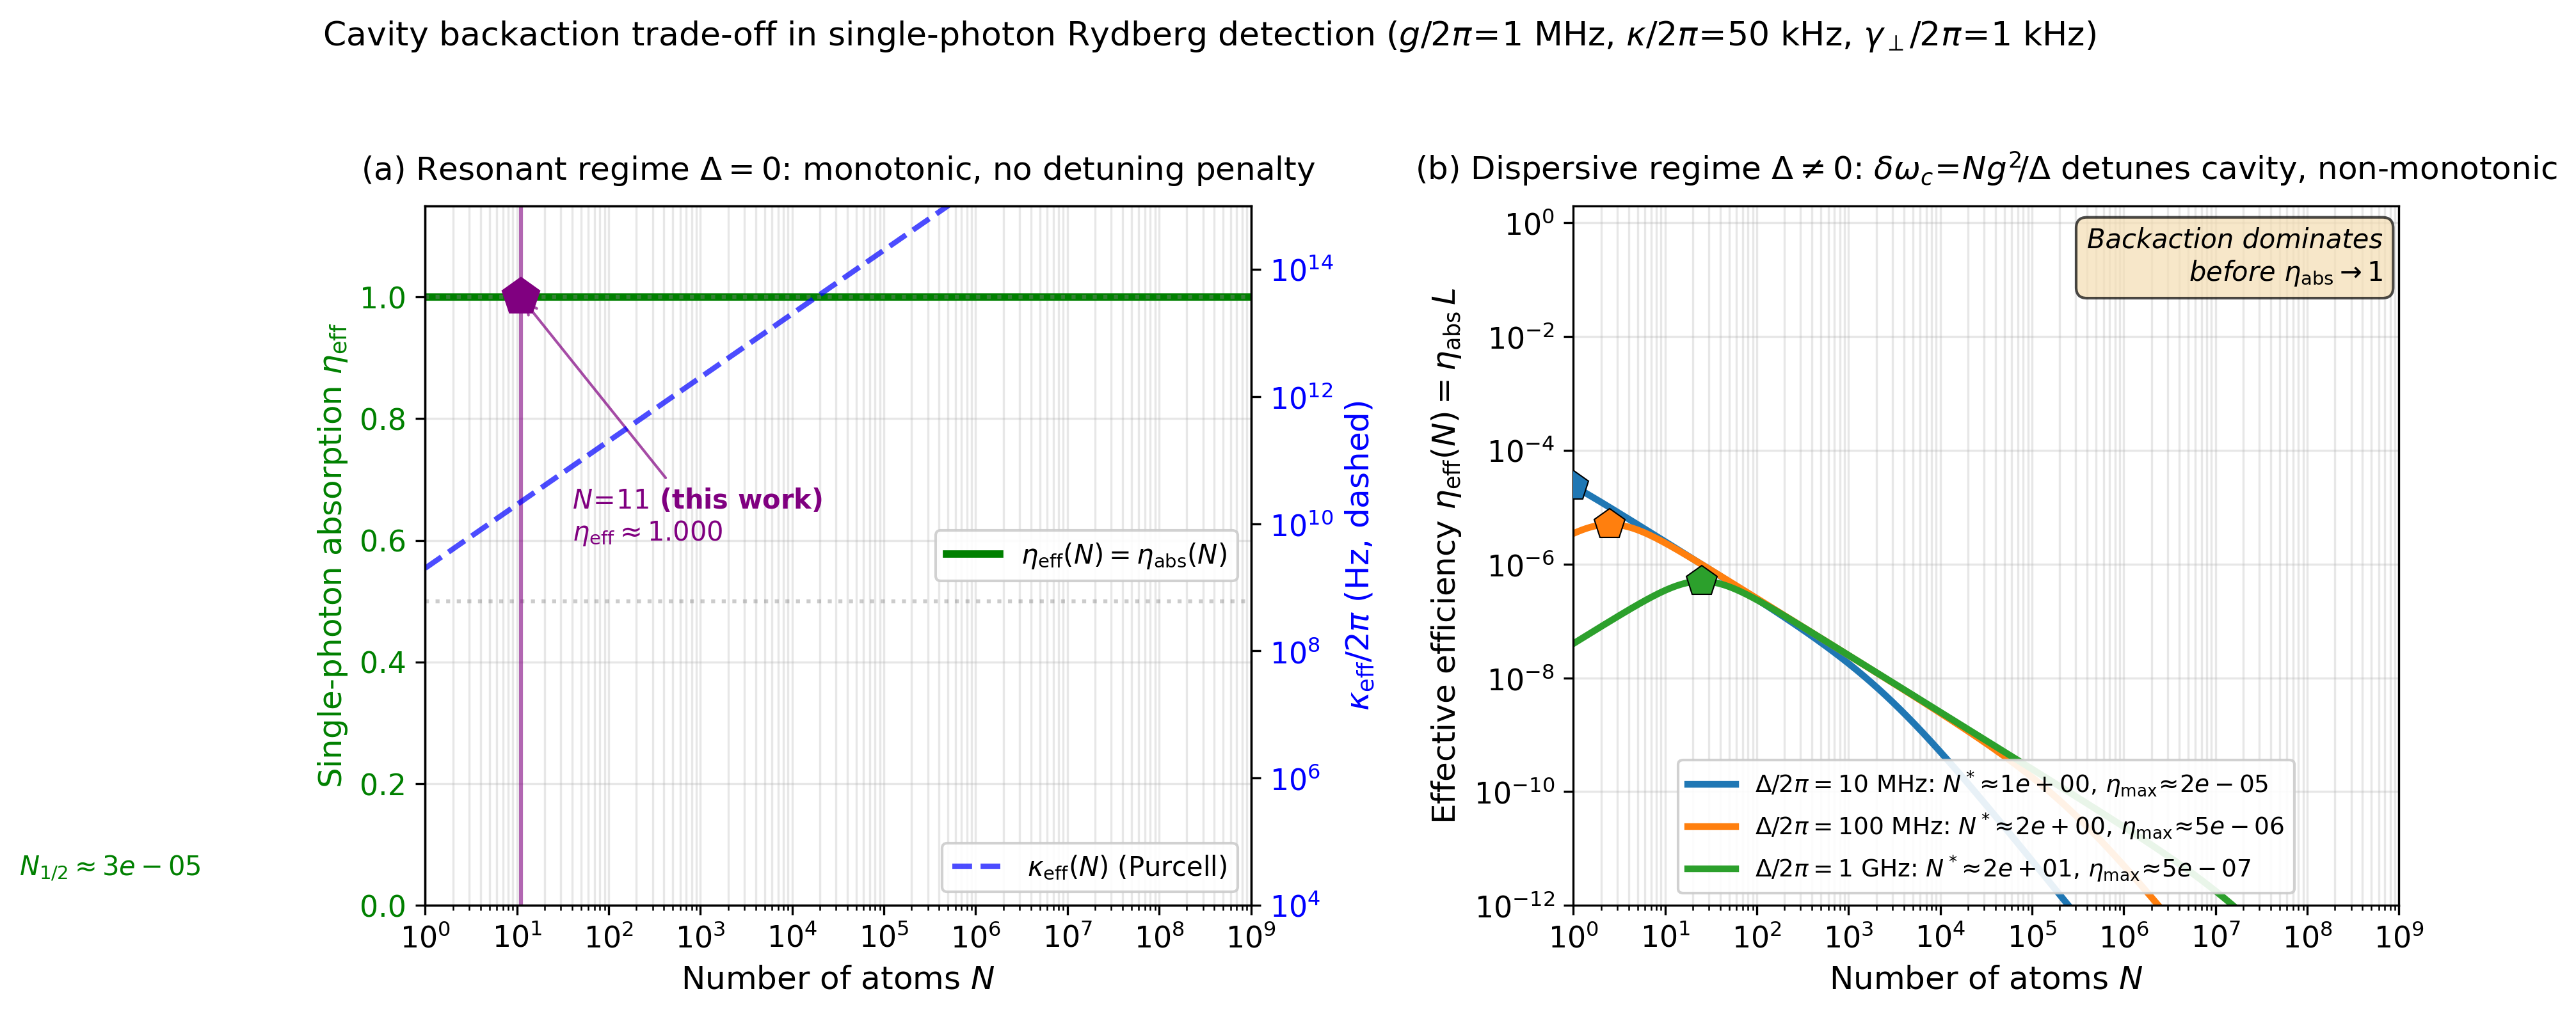
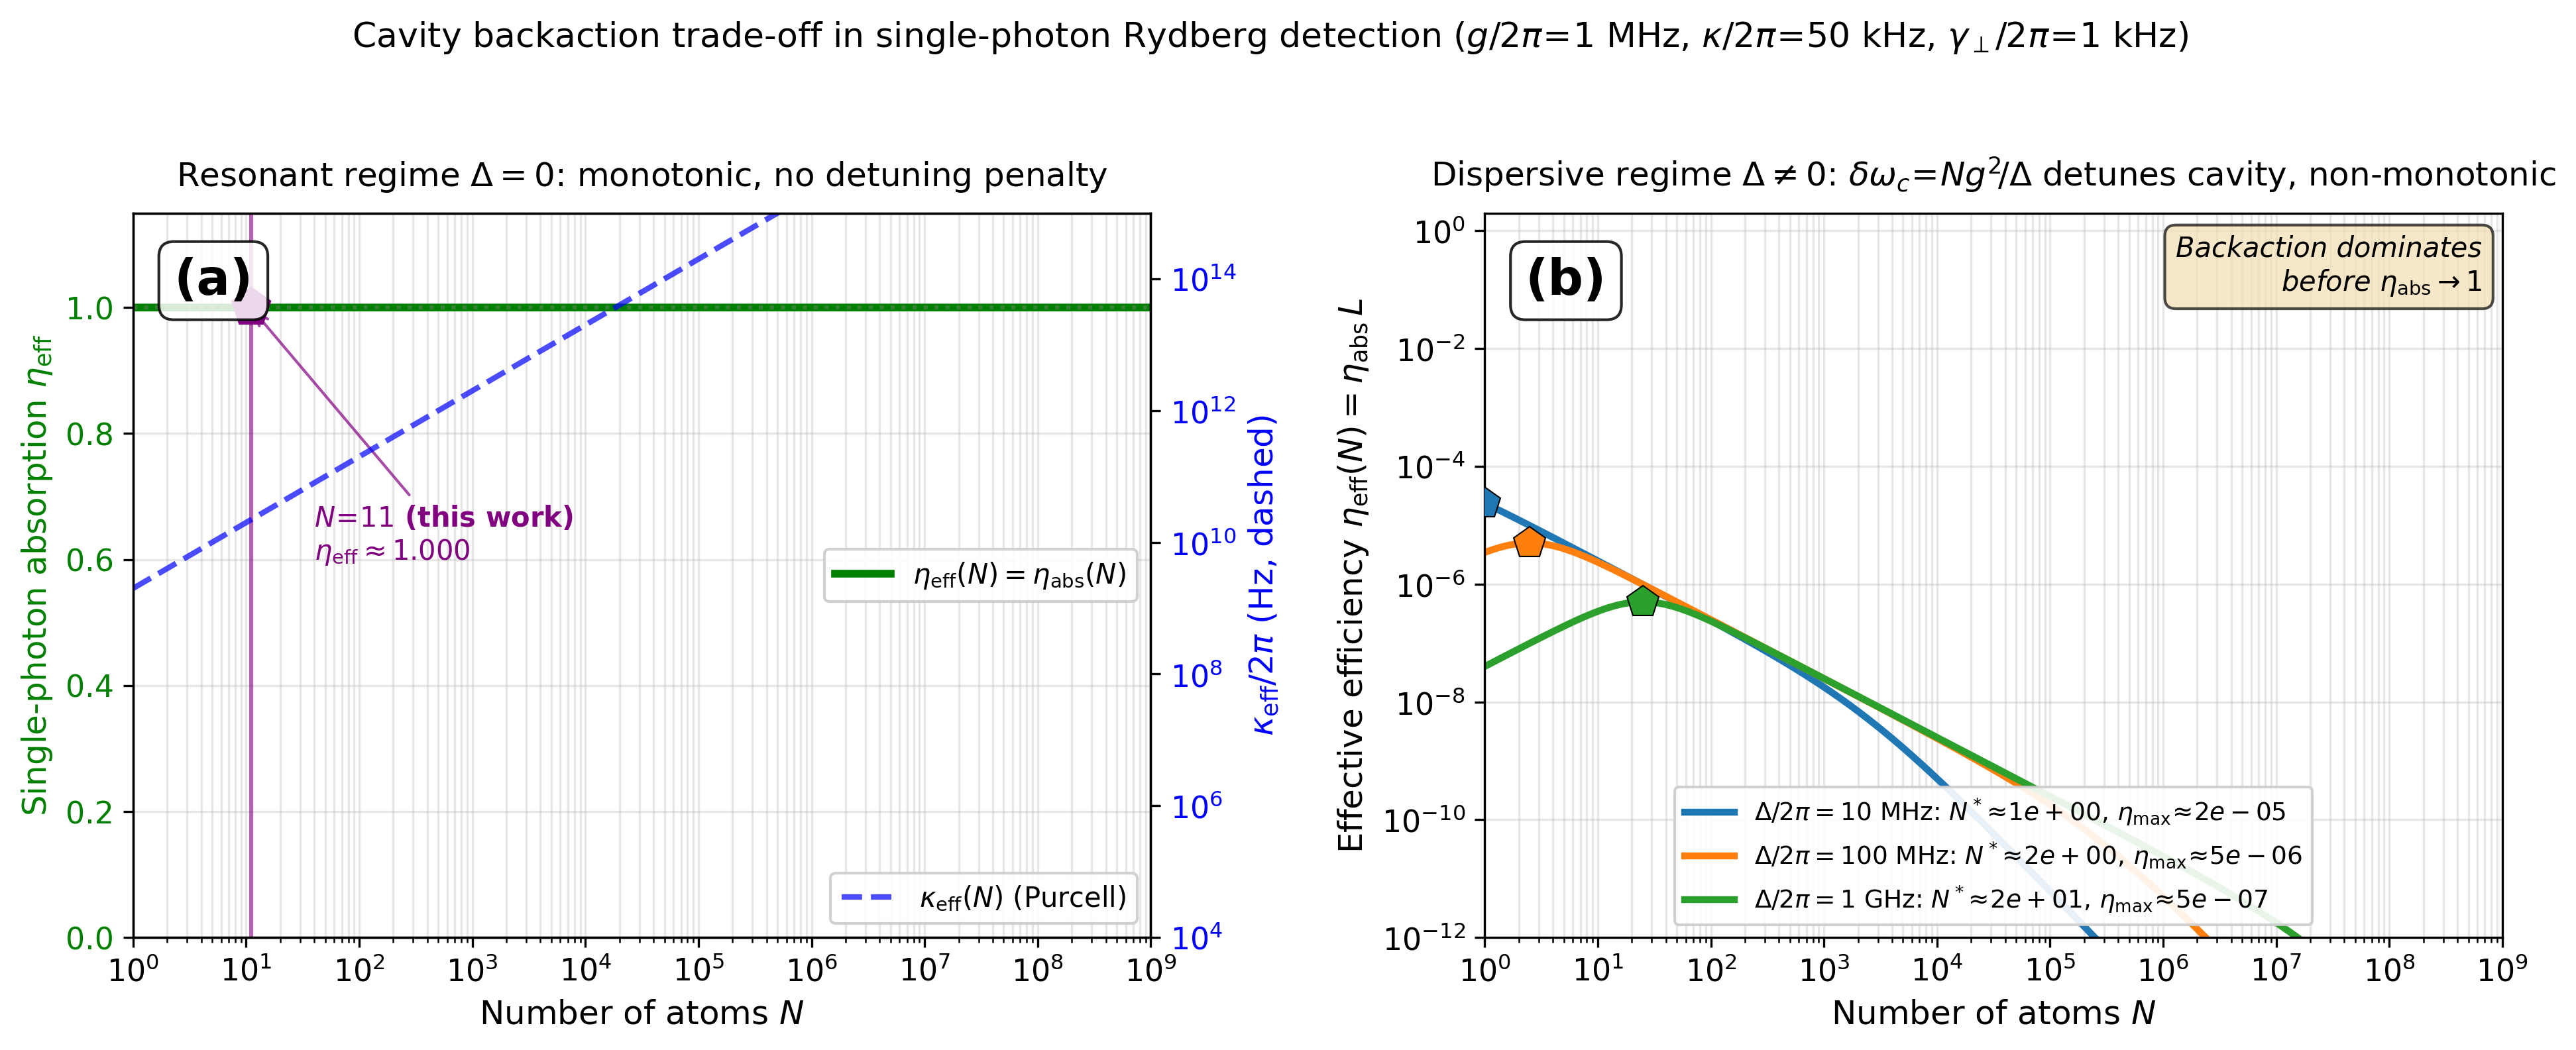
Cosmetic cleanup of figure scripts (Fig 4.1 and Fig 4.3)
This commit groups three small improvements to the figure-generation
scripts for chapter 4 of the thesis:

1. backaction_eta_eff_vs_N.py (Fig 4.3): remove the orphan annotation
   N_(1/2) ~= 3e-5 and the axhline(0.5)/axvline(N_half_res) marks that
   accompanied it.  These objects landed outside the plot area because
   the x-position N_half_res*1.5 = 3.75e-5 falls far below xlim=[1, 1e9]
   on the log axis, so matplotlib was clipping them to the lower-left
   margin.  N_(1/2) is also unphysical (the formula N_(1/2) = 1/(2 C_1)
   evaluates to a fractional atom for C_1 ~ 2e4, which has no
   operational meaning) so removing the annotation also improves
   physical clarity.

2. backaction_eta_eff_vs_N.py: add boxed panel labels (a) and (b) in
   the upper-left corner of each subplot (white box, black edge,
   bold, fontsize 18, zorder 10), and drop the redundant '(a)' /
   '(b)' that used to live in the subplot titles.  This brings the
   figure in line with the typographic convention now used in
   captions throughout the thesis.

3. plot_B_field_scan_with_labels.py (Fig 4.1): new standalone wrapper
   that runs the standard scan_magnetic_field + plot_magnetic_field_
   comparison pipeline and overlays panel labels (a)-(d) using the
   same boxed-text style.  The simulation itself is unchanged with
   respect to the version that generated the figure currently
   committed under chapters/qs_figures/ — Hamiltonian, parameters,
[…]

diff --git a/3_qutip_simpulation_with_magnetic_field/axion_rydberg_package/examples/plot_B_field_scan_with_labels.py b/3_qutip_simpulation_with_magnetic_field/axion_rydberg_package/examples/plot_B_field_scan_with_labels.py
@@ -1,0 +1,95 @@
+"""
+Generate fig:B_field_scan (axion_detector_B_scan.png) with panel
+labels (a), (b), (c), (d) drawn inside each subplot.
+
+The script runs the standard QuTiP magnetic-field scan from
+`axion_rydberg_detector_magnetic_field` (B = 0, 1, 3, 5 T, N = 11
+atoms, T = 4 K), then calls the standard 4-panel plotting routine
+`plot_magnetic_field_comparison` and overlays panel labels (a)-(d)
+as boxed text in the upper-left corner of each subplot before
+saving the figure with the manuscript-expected filename
+`axion_detector_B_scan.png`.
+
+The simulation itself is UNCHANGED with respect to the version that
+generated the figure currently committed in
+PhDThesis/chapters/qs_figures/.  Same Hamiltonian, same parameters,
+same dimensional checks.  Only cosmetic overlays are added.
+
+
+HOW TO RUN
+----------
+Place this script in the
+    axion_rydberg_package/examples/
+directory (next to the existing example_B_field_scan.py), then:
+
+    cd .../axion_rydberg_package/examples/
+    python3 plot_B_field_scan_with_labels.py
+
+The figure is saved into the same directory.  Copy it into the
+PhDThesis repository under
+    chapters/qs_figures/axion_detector_B_scan.png
+to overwrite the version referenced by the LaTeX caption.
+
+
+REQUIREMENTS
+------------
+- qutip
+- numpy
+- matplotlib
+
+Runtime: ~1-3 minutes on a typical workstation (4 QuTiP runs at
+N = 11, Hilbert dimension 2048).
+"""
+
+import os
+import sys
+
+# Locate the code/ directory next to this examples/ directory
+_here = os.path.dirname(os.path.abspath(__file__))
+_code_dir = os.path.normpath(os.path.join(_here, '..', 'code'))
+if _code_dir not in sys.path:
+    sys.path.insert(0, _code_dir)
+
+from axion_rydberg_detector_magnetic_field import (  # noqa: E402
+    scan_magnetic_field, plot_magnetic_field_comparison
+)
+
+
+# ============================================================================
+# Run the magnetic-field scan (full QuTiP simulation)
+# ============================================================================
+results = scan_magnetic_field(
+    B_values=[0.0, 1.0, 3.0, 5.0],
+    temperature=4.0,
+    N=11,
+)
+
+
+# ============================================================================
+# Plot — patch the standard 4-panel comparison with panel labels
+# ============================================================================
+fig = plot_magnetic_field_comparison(results, save_fig=False)
+
+# Overlay panel labels (a)-(d) in the upper-left corner of each subplot.
+# The first four axes of `fig.axes` are the four data panels; any
+# subsequent axes belong to colorbars and are skipped.
+panel_labels = ['(a)', '(b)', '(c)', '(d)']
+for ax, lbl in zip(fig.axes[:4], panel_labels):
+    ax.text(
+        0.04, 0.94, lbl,
+        transform=ax.transAxes,
+        fontsize=18, fontweight='bold',
+        va='top', ha='left',
+        bbox=dict(
+            boxstyle='round,pad=0.3',
+            facecolor='white',
+            edgecolor='black',
+            alpha=0.85,
+        ),
+        zorder=10,
+    )
+
+# Save with the exact filename expected by the manuscript
+out_path = os.path.join(_here, 'axion_detector_B_scan.png')
+fig.savefig(out_path, dpi=300, bbox_inches='tight')
+print(f"\nSaved: {out_path}")

diff --git a/4_cavity_backaction_analysis/backaction_eta_eff_vs_N.py b/4_cavity_backaction_analysis/backaction_eta_eff_vs_N.py
@@ -119,11 +119,6 @@ ax = axes[0]
 ax.semilogx(N_arr, eta_abs_res, 'g-', linewidth=2.8,
             label=r'$\eta_{\rm eff}(N) = \eta_{\rm abs}(N)$')
 ax.axhline(1.0, color='gray', linestyle=':', alpha=0.4)
-ax.axhline(0.5, color='gray', linestyle=':', alpha=0.4)
-ax.axvline(N_half_res, color='green', linestyle='--', alpha=0.4, linewidth=1.5)
-ax.text(N_half_res*1.5, 0.05,
-        rf'$N_{{1/2}} \approx {N_half_res:.0e}$',
-        color='green', fontsize=10)
 
 # Roberto's working point at N=11
 N_work = 11
@@ -138,11 +133,16 @@ ax.annotate(rf'$N\!=\!11$ (this work)' + '\n' + rf'$\eta_{{\rm eff}}\approx{eta_
 ax.set_xlabel(r'Number of atoms $N$')
 ax.set_ylabel(r'Single-photon absorption $\eta_{\rm eff}$', color='g')
 ax.tick_params(axis='y', labelcolor='g')
-ax.set_title(r'(a) Resonant regime $\Delta=0$: monotonic, no detuning penalty', pad=10)
+ax.set_title(r'Resonant regime $\Delta=0$: monotonic, no detuning penalty', pad=10)
 ax.set_ylim([0, 1.15])
 ax.set_xlim([1, 1e9])
 ax.grid(True, alpha=0.3, which='both')
 ax.legend(loc='center right', framealpha=0.9)
+# Panel label (a)
+ax.text(0.04, 0.94, '(a)', transform=ax.transAxes,
+        fontsize=18, fontweight='bold', va='top', ha='left',
+        bbox=dict(boxstyle='round,pad=0.3', facecolor='white',
+                  edgecolor='black', alpha=0.85), zorder=10)
 
 # Secondary axis: kappa_eff/(2pi) (Purcell broadening)
 ax2 = ax.twinx()
@@ -168,11 +168,16 @@ for r, label, color in zip(results_disp, Delta_labels, Delta_colors):
 
 ax.set_xlabel(r'Number of atoms $N$')
 ax.set_ylabel(r'Effective efficiency $\eta_{\rm eff}(N) = \eta_{\rm abs}\,L$')
-ax.set_title(r'(b) Dispersive regime $\Delta \neq 0$: $\delta\omega_c\!=\!Ng^2\!/\Delta$ detunes cavity, non-monotonic', pad=10)
+ax.set_title(r'Dispersive regime $\Delta \neq 0$: $\delta\omega_c\!=\!Ng^2\!/\Delta$ detunes cavity, non-monotonic', pad=10)
 ax.set_ylim([1e-12, 2])
 ax.set_xlim([1, 1e9])
 ax.grid(True, alpha=0.3, which='both')
 ax.legend(loc='lower center', framealpha=0.9, fontsize=9, ncol=1)
+# Panel label (b)
+ax.text(0.04, 0.94, '(b)', transform=ax.transAxes,
+        fontsize=18, fontweight='bold', va='top', ha='left',
+        bbox=dict(boxstyle='round,pad=0.3', facecolor='white',
+                  edgecolor='black', alpha=0.85), zorder=10)
 
 # Interpretive annotation
 ax.text(0.98, 0.97,